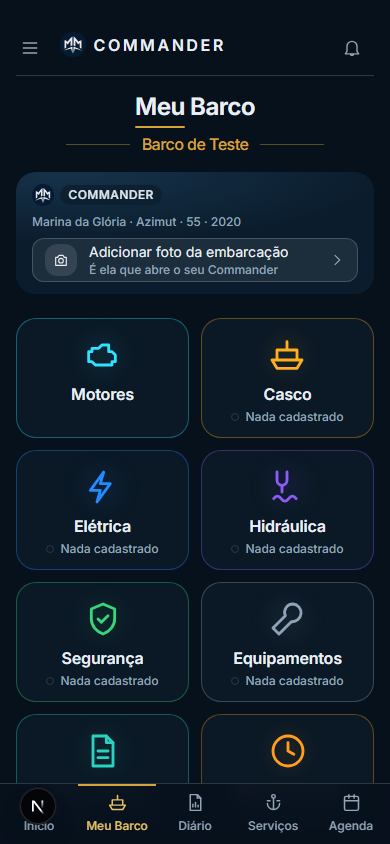
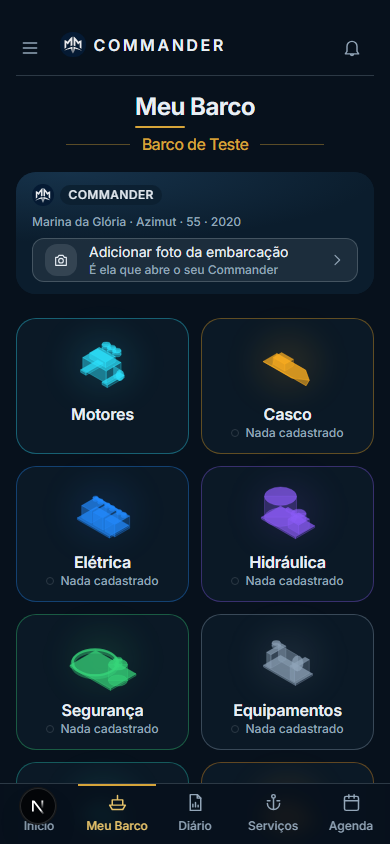
feat(onda 118): os objetos 3D entram nos cards — a grade vira a das imagens do guia
O dono comparou o app com as imagens do PRD e cobrou: *"eu quero igual,
EXATAMENTE IGUAL"*. Olhando o print dele contra a captura do app, a diferença
que gritava era UMA: nas imagens 1, 6 e 7, cada um dos oito cards da central
técnica carrega o OBJETO do hub — o motor, o casco, as baterias — e no app os
cards tinham ícone de linha de 40px.

O QUE MUDOU:
· Os oito cards de `/barco` passam a renderizar `ObjetoHub` — a MESMA cena
  isométrica do herói da tela do hub, em miniatura: mesma câmera, mesma luz,
  mesma cor. O card e a tela de destino agora são visivelmente a mesma coisa,
  que é o que faz "toquei no motor, caí no motor" dispensar leitura.
· O halo (o "rim light na cor do hub" do §6) fica atrás do objeto, maior e
  mais desfocado — luz, não cartucho.
· O DIÁRIO ABRE COM O BARCO, como a imagem 5 desenha: a cena do casco em
  miniatura no topo, antes dos filtros e da linha do tempo. Pintada em
  `--dado` (azul-aço) e não no âmbar do hub Casco — aqui o barco não é o hub
  de estrutura, é o protagonista da navegação. E menor que o herói de hub de
  propósito: §9 do guia, "elementos 3D nestas telas são menores e de apoio;
  nunca competem com dados e tarefas".

O QUE CONTINUA SENDO VERDADE, dito sem rodeio: são as cenas isométricas
desenhadas em código, não os renders fotorrealistas das imagens — aqueles são
"exemplos de linguagem, não o pacote final de assets" (§6 do próprio guia), e
o pacote final continua sendo uma encomenda ou uma sessão de Blender. Quando
[…]

diff --git a/web/app/(app)/barco/page.tsx b/web/app/(app)/barco/page.tsx
@@ -22,6 +22,7 @@ import { carregarPatrocinioDashboard } from "@/lib/consultas-publicidade"
 import { podeEditar, podeVer, type Aba } from "@/lib/domain/permissoes"
 import { TOQUE, TOQUE_AMPLO } from "@/lib/ui/acoes"
 import { HUBS, type ChaveHub } from "@/lib/ui/hubs"
+import { ObjetoHub } from "@/components/ui/objeto-hub"
 import type { ItemMonitorado } from "@/lib/db/types"
 
 /**
@@ -463,9 +464,17 @@ export default async function BarcoPage({
                   O ícone vai num irmão `relative`, e não dentro do disco: filho
                   de elemento borrado herda o `filter`, e o traço sairia
                   desfocado junto. */}
-              <span className="relative flex size-10 shrink-0 items-center justify-center">
-                <span aria-hidden="true" className={`absolute inset-1 rounded-[var(--raio-pilula)] blur-md ${h.halo}`} />
-                <Icone nome={h.icone} className={`relative size-10 shrink-0 ${h.tom}`} />
+              {/* ONDA 118 — O OBJETO 3D ENTRA NO CARD, como nas imagens 1, 6 e
+                  7 do guia. O dono comparou o app com o PRD e a diferença que
+                  gritava era esta: nas imagens, cada um dos oito cards carrega
+                  o OBJETO do hub (motor, casco, baterias...), não um ícone de
+                  linha. `ObjetoHub` é a mesma cena isométrica do herói da tela
+                  do hub, em miniatura — mesma câmera, mesma luz, mesma cor, o
+                  que faz o card e a tela de destino serem visivelmente a mesma
+                  coisa. O halo fica atrás, que é o "rim light" do §6. */}
+              <span className={`relative flex h-16 w-full items-center justify-center ${h.tom}`}>
+                <span aria-hidden="true" className={`absolute inset-x-6 inset-y-1 rounded-[var(--raio-pilula)] blur-lg ${h.halo}`} />
+                <ObjetoHub chave={h.chave} className="relative h-16 w-28" />
               </span>
               {/* `<h2>` E NÃO `<p>`, e isto é conserto de achado, não capricho: a
                   auditoria de 19/08 mediu "nenhum `<h2>` ou `<h3>` na tela

diff --git a/web/app/(app)/diario/page.tsx b/web/app/(app)/diario/page.tsx
@@ -5,6 +5,7 @@ import { BarraFerramentas } from "@/components/ui/barra-ferramentas"
 import { Chip, ChipDado } from "@/components/ui/chip"
 import { EstadoVazio } from "@/components/ui/estado-vazio"
 import { SecaoPagina } from "@/components/ui/secao-pagina"
+import { ObjetoHub } from "@/components/ui/objeto-hub"
 import { carregarPainel } from "@/lib/consultas"
 import { duracaoHoras, textoDuracao, tituloDaSaida, tituloDoRegistro } from "@/lib/domain/bordo"
 import { agruparPorMes, eventoNoFiltro, nomeDoEquipamento, TIPO_ROTULO, type FiltroDiario } from "@/lib/domain/diario"
@@ -107,6 +108,20 @@ export default async function DiarioPage({
   return (
     <main>
       <h1 className="titulo-pagina">Diário de Bordo</h1>
+
+      {/* ONDA 118 — O BARCO ABRE O DIÁRIO, como na imagem 5 do guia: a tela
+          de Diário de lá tem a embarcação em 3D no topo, antes dos filtros e
+          da linha do tempo. A cena é a MESMA do hub Casco (`ObjetoHub`),
+          pintada em `--dado` (o azul-aço de série) e não na cor do hub: aqui
+          o barco não é o hub Casco, é o protagonista do Diário — usar o âmbar
+          do Casco diria "isto é sobre estrutura", e é sobre navegar.
+          `h-28` e não os 176px do herói de hub: a imagem 5 desenha o objeto
+          MENOR nas telas operacionais ("elementos 3D nestas telas são menores
+          e de apoio; nunca competem com dados e tarefas", §9 do guia). */}
+      <div aria-hidden="true" className="raio-painel relative mt-4 flex h-28 items-center justify-center overflow-hidden border border-line bg-panel text-dado">
+        <span className="absolute inset-x-10 inset-y-2 rounded-[var(--raio-pilula)] bg-dado/10 blur-lg" />
+        <ObjetoHub chave="casco" className="relative h-24 w-44" />
+      </div>
       {/* A frase de baixo do título é a do canvas (tela-3a): diz de uma vez o
           que mora aqui, pra primeira visita não precisar deduzir do filtro. */}
       {/* Importar do plotter (onda 21) — anos de trilha ja gravada no
